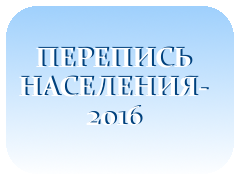
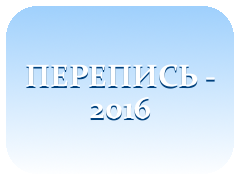
fignya

Changed region(s): [[0.0875, 0.25, 0.9042, 0.6944]]

diff --git a/perepis_2016.html b/perepis_2016.html
@@ -46,7 +46,7 @@
 <div class="info">
 
     <article class="hero clearfix">
-            <div class="logo">Перепись населения 2016</div>
+            <div class="logo">Перепись 2016</div>
     </article>  
 </div>
 
